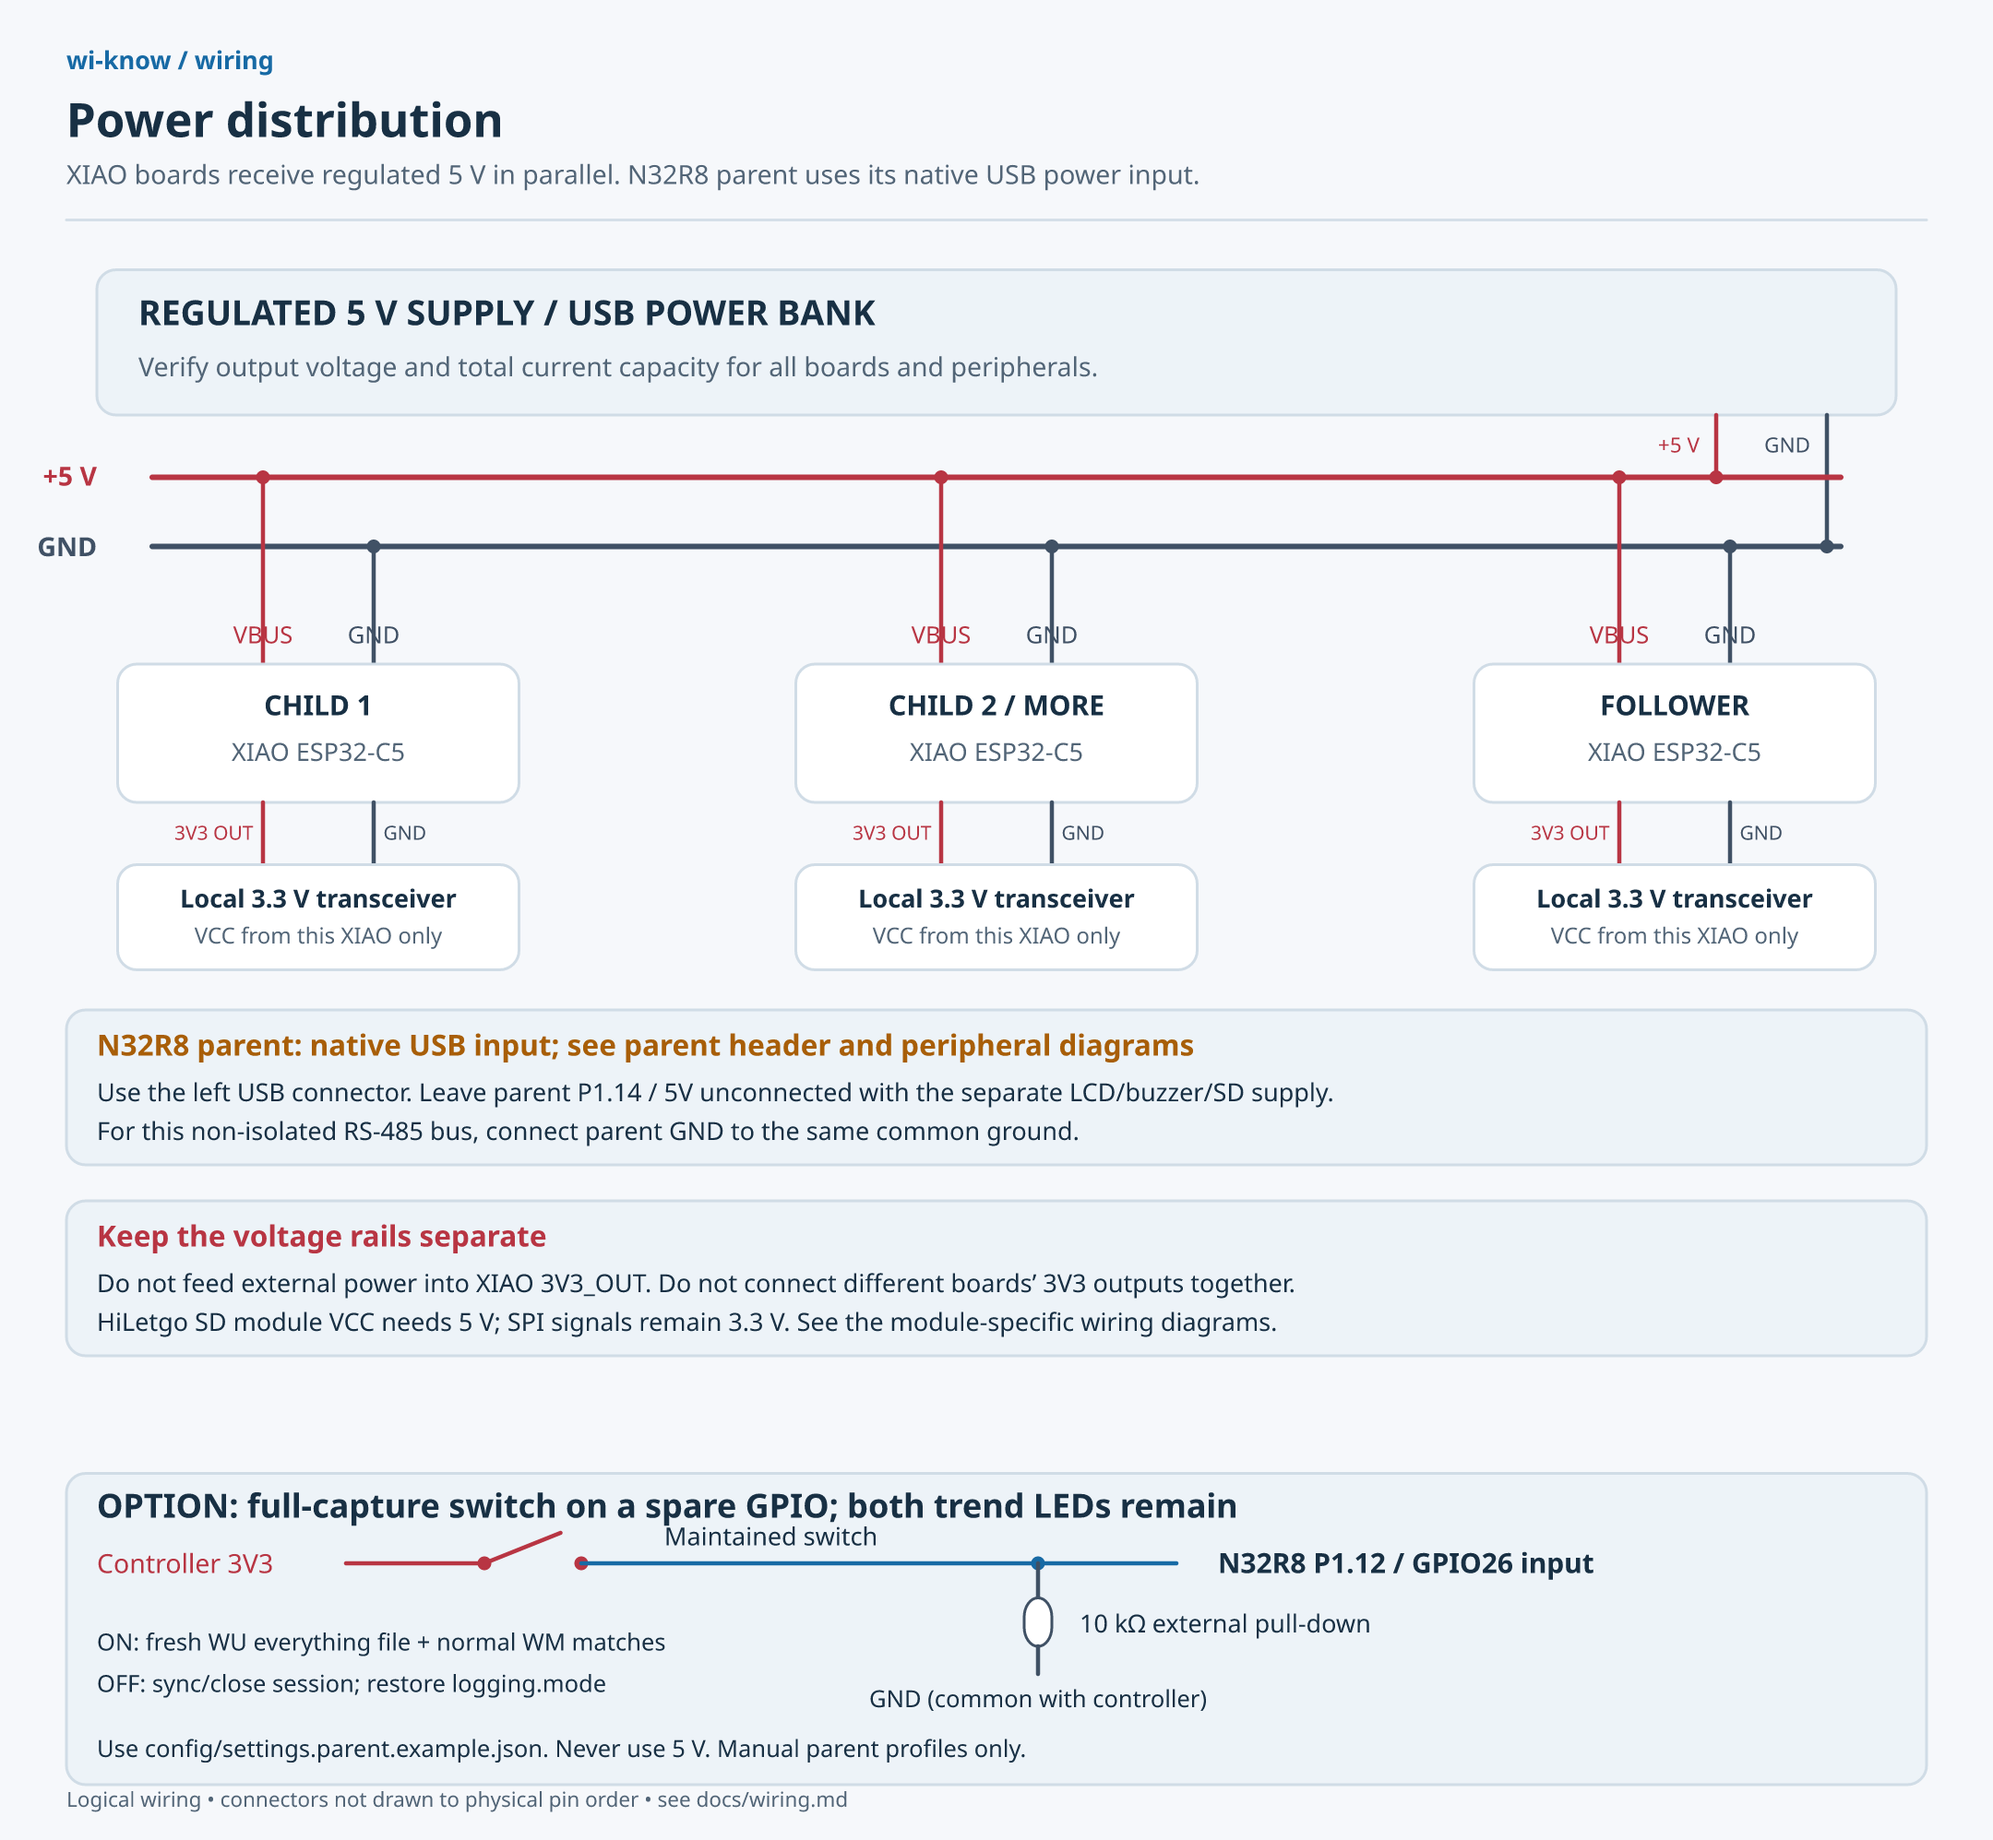
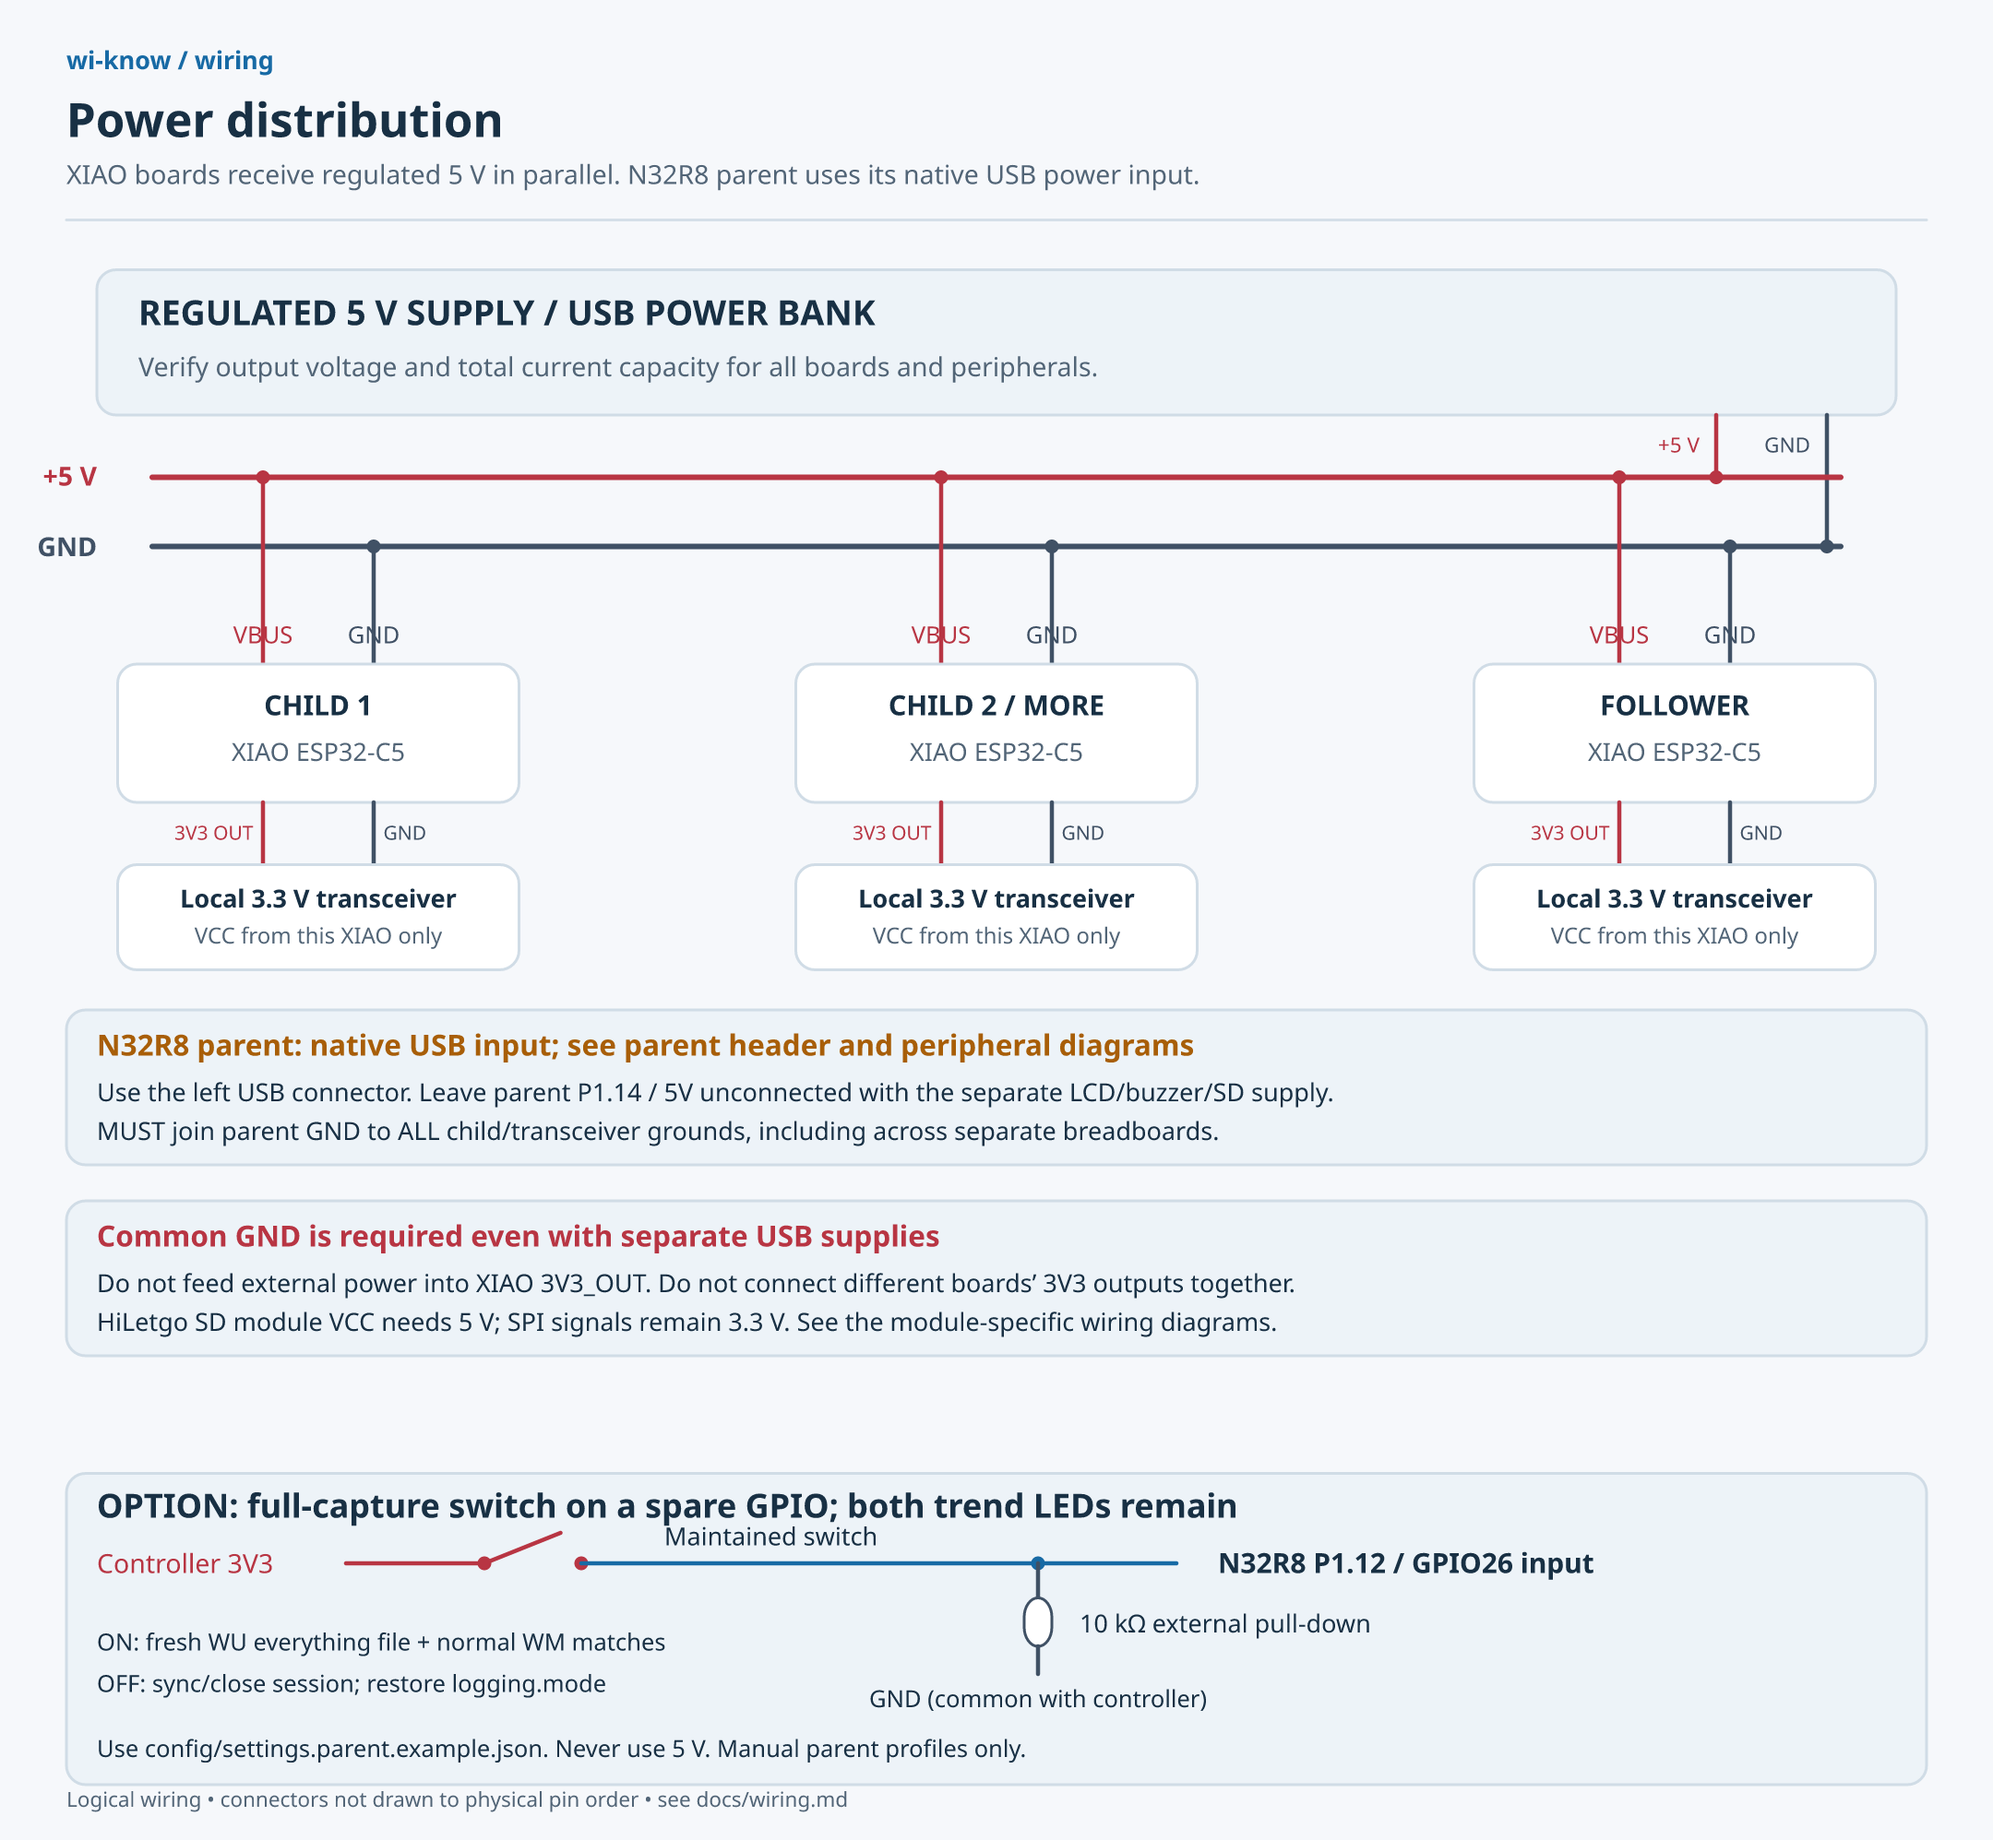
Emphasize required common ground across RS-485 boards

Changed region(s): [[0.062, 0.5905, 0.5894, 0.6216], [0.062, 0.6526, 0.4653, 0.6837]]

diff --git a/tools/generate_wiring.py b/tools/generate_wiring.py
@@ -134,9 +134,9 @@ def node_wiring(png):
         'enabled: true    uart: 1    tx_pin: 11    rx_pin: 12    rts_pin: 7    baud: 115200',
         'Use GPIO numbers in JSON. The D6 / D7 / D3 labels apply specifically to the XIAO ESP32-C5.',
     ])
-    d.note(836, 'Power is separate from data', [
-        'Supply each XIAO through USB or regulated 5 V at VBUS + GND. 3V3 powers its local transceiver.',
-        'Do not join multiple boards’ 3V3 outputs. Never connect raw TX outputs together.',
+    d.note(836, 'REQUIRED: parent and ALL children MUST share GND', [
+        'Run a GND wire between breadboard ground rails; join each ESP32 and transceiver GND.',
+        'Separate USB supplies still require shared GND. Keep independent 3V3 / +5 V outputs separate.',
     ], RED)
     d.save('xiao-rs485-wiring', png)
 
@@ -172,11 +172,11 @@ def bus_wiring(png):
         d.dot(x, 500, GREEN)
         d.dot(x, 555, BLUE)
         d.text(label_x, 537, '120 Ω', size=16, weight=700)
-    d.text(720, 657, 'Dots mark electrical junctions. Unmarked crossings do not connect.', size=18, color=MUTED, anchor='middle')
-    d.note(690, 'Bus layout', [
-        'Run A and B as a twisted pair; keep node stubs short. Join the grounds of this non-isolated bus.',
+    d.text(720, 657, 'REQUIRED GND wire: parent + every child/follower + every transceiver.', size=18, color=MUTED, anchor='middle')
+    d.note(690, 'Parent and ALL children MUST share a common ground', [
+        'Separate breadboards: explicitly wire their GND rails together. A and B alone are not enough.',
         'Fit termination only at the two cable ends. Check existing module termination before adding resistors.',
-        'Use identical module A/B conventions; provide one appropriate bias network if required by the modules.',
+        'Twist A/B; keep stubs short. Dots are junctions; unmarked crossings do not connect. Check module bias.',
     ])
     d.note(853, 'N32R8 parent uses the separate peripheral example config', [
         '*Parent GPIO11 / 3 / 7; workers GPIO11 / 12 / 7. Parent GPIO12 is tied to USB-UART TX.',
@@ -219,9 +219,9 @@ def power_wiring(png):
         d.text(x, 682, 'VCC from this XIAO only', size=16, color=MUTED, anchor='middle')
     d.note(730, 'N32R8 parent: native USB input; see parent header and peripheral diagrams', [
         'Use the left USB connector. Leave parent P1.14 / 5V unconnected with the separate LCD/buzzer/SD supply.',
-        'For this non-isolated RS-485 bus, connect parent GND to the same common ground.',
+        'MUST join parent GND to ALL child/transceiver grounds, including across separate breadboards.',
     ], ORANGE)
-    d.note(868, 'Keep the voltage rails separate', [
+    d.note(868, 'Common GND is required even with separate USB supplies', [
         'Do not feed external power into XIAO 3V3_OUT. Do not connect different boards’ 3V3 outputs together.',
         'HiLetgo SD module VCC needs 5 V; SPI signals remain 3.3 V. See the module-specific wiring diagrams.',
     ], RED)

diff --git a/docs/wiring.md b/docs/wiring.md
@@ -291,6 +291,12 @@ The D-to-GPIO mapping comes from the
 
 [Editable SVG](images/rs485-network.svg)
 
+**The parent, every child/follower, and all transceivers MUST share a common ground.**
+On separate breadboards, run an explicit wire between their ground rails and
+connect each board/transceiver GND to that shared ground. Separate USB power
+connections do not replace this wire. A/B connections alone are insufficient for
+this non-isolated setup. Keep independently powered +5 V and 3V3 outputs separate.
+
 Provide one transceiver per board, including the parent. Connect A to A, B to B,
 and grounds together for this non-isolated bus. Use a twisted pair for A/B in a
 linear daisy chain with short stubs. Connection dots indicate junctions; crossings
